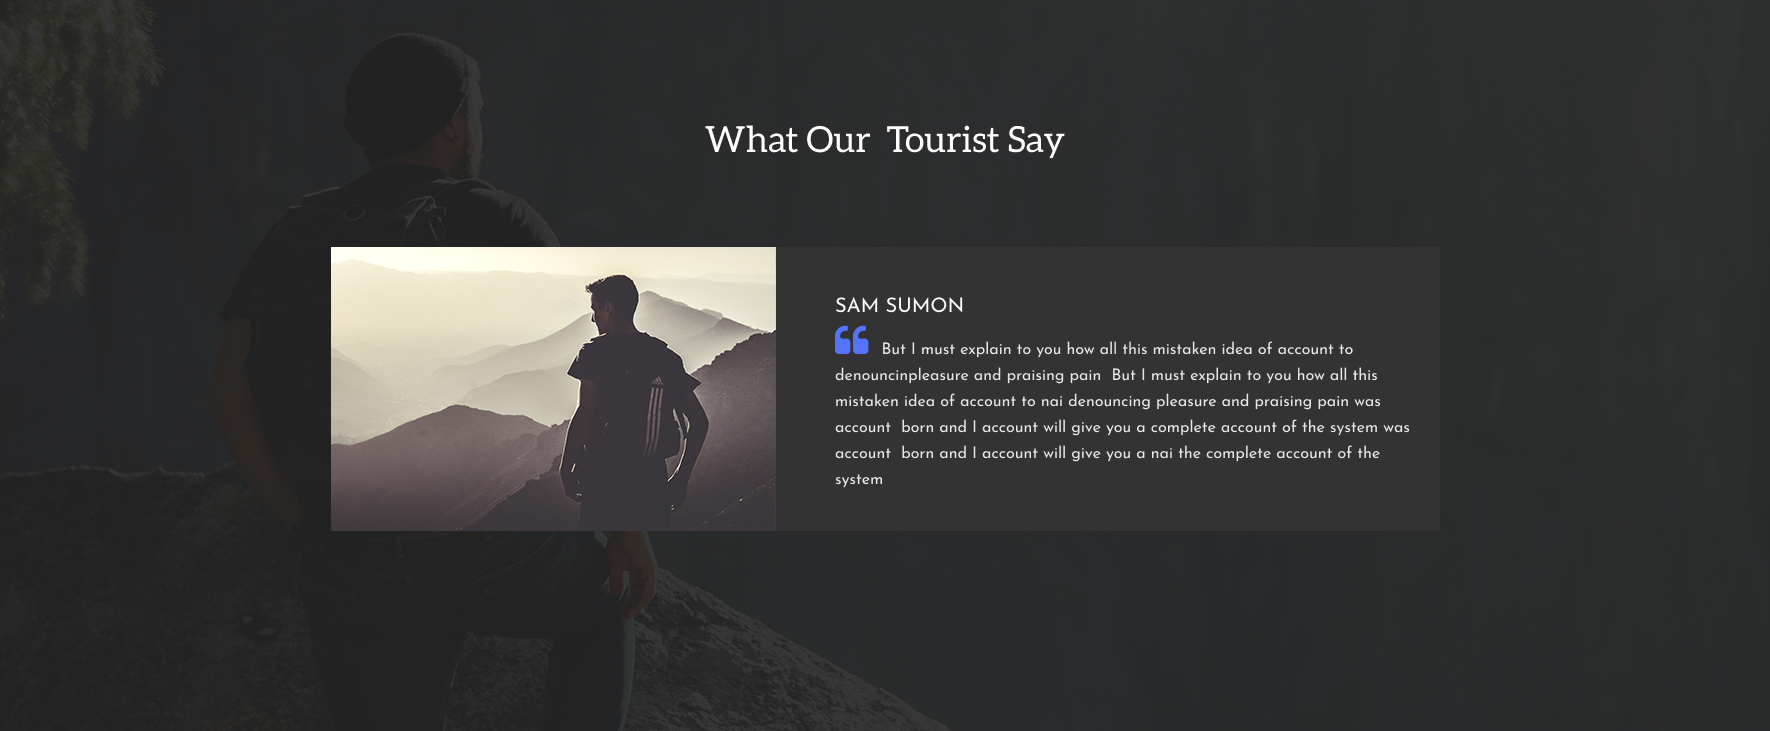
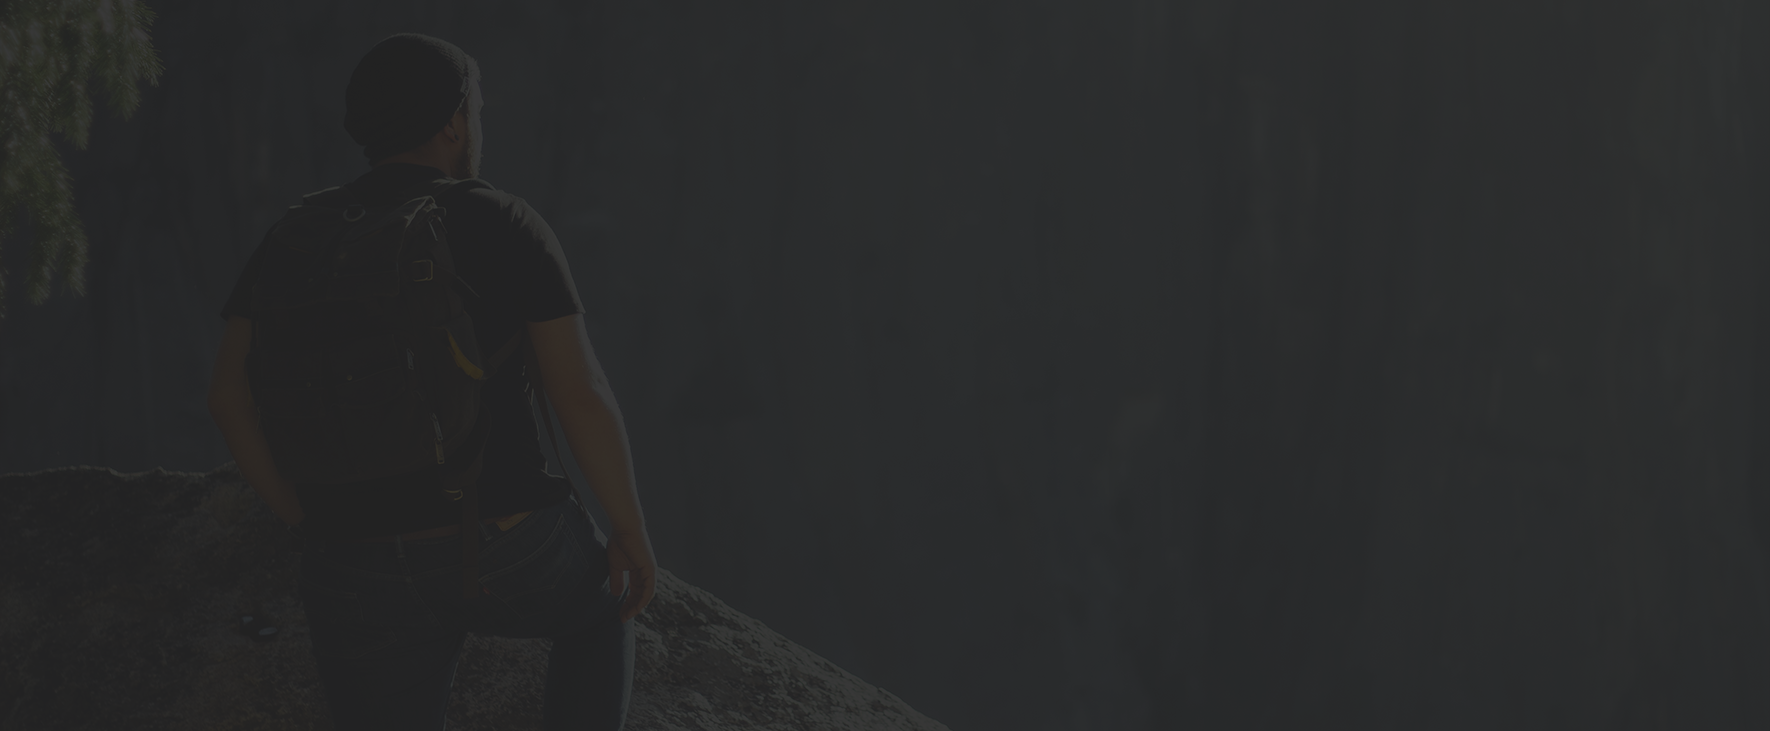
modified index.html

Changed region(s): [[0.1864, 0.3311, 0.8079, 0.7524], [0.404, 0.1806, 0.6215, 0.2107]]

diff --git a/index.html b/index.html
@@ -8,6 +8,7 @@
     <link rel="preconnect" href="https://fonts.gstatic.com" crossorigin>
     <link href="https://fonts.googleapis.com/css2?family=Montserrat:ital,wght@0,100..900;1,100..900&display=swap" rel="stylesheet">
     <link rel="stylesheet" href="https://cdnjs.cloudflare.com/ajax/libs/font-awesome/5.15.4/css/all.min.css">
+    <link rel="icon" href="favicon.ico" type="image/x-icon">
     <title>Travel Guide</title>
 </head>
 <body>
@@ -70,32 +71,73 @@
         </div>
     </section>
 
-    <section class="travel-with-us">
-        <div class="group 1">
-            <p>Spain</p>
-            <h4>GRAND SPAIN MADRID</h4>
-            <p>But I must explain to you how all this mistaken idea of account to denouncing pleasure and praising pain was account  born and I account will give you a complete account of the system</p>
-            <button class="book-now">BOOK NOW</button>
-        </div>
-        <div class="group 2">
-            <p>Spain</p>
-            <h4>GRAND SPAIN MADRID</h4>
-            <p>But I must explain to you how all this mistaken idea of account to denouncing pleasure and praising pain was account  born and I account will give you a complete account of the system</p>
-            <button class="book-now">BOOK NOW</button>
-        </div>
-    </section>
-
-    <section class="testimony">
-        <div>
-            <h5>What Our Tourist Say</h5>
-            <p>SAM SUMON   But I must explain to you how all this mistaken idea of account to denouncinpleasure and praising pain  But I must explain to you how all this mistaken idea of account to nai denouncing pleasure and praising pain was account  born and I account will give you a complete account of the system was account  born and I account will give you a nai the complete account of the system</p>
-            <img src="images/testimonial.png" alt="his-testimony">
+    <section class="destination-section" id="destination-one">
+        <div class="overlay">
+            <div class="content-box">
+                <h3>Spain</h3>
+                <h2>GRAND SPAIN MADRID</h2>
+                <p>But I must explain to you how all 
+                    this mistaken idea of denouncing pleasure 
+                    and praising pain was born and I will give you 
+                    a complete account of the system.
+                </p>
+                <a href="#" class="btn">BOOK NOW</a>
+            </div>
         </div>
     </section>
 
-    <section>
-        <h6>BHROMAON</h6>
-        <p6>Safe Travel Anywhere</p6>
+    <section class="destination-section" id="destination-two">
+        <div class="overlay">
+            <div class="content-box">
+                <h3>Spain</h3>
+                <h2>GRAND SPAIN MADRID</h2>
+                <p>But I must explain to you how all 
+                    this mistaken idea of denouncing pleasure 
+                    and praising pain was born and I will give you 
+                    a complete account of the system.
+                </p>
+                <a href="#" class="btn">BOOK NOW</a>
+            </div>
+        </div>
     </section>
+
+
+    <section class="testimonial-section">
+        <div class="container">
+          <h2>What Our Tourist Say</h2>
+          <div class="testimonial-content">
+            <div class="testimonial-image">
+              <img src="images/testimonial.png" alt="Testimonial Image" />
+            </div>
+            <div class="testimonial-text">
+                <h3>SAM SUMON</h3>
+                <p>But I must explain to you how all this mistaken idea of denouncing pleasure and praising pain was born and I will give you a complete account of the system and expound the actual teachings of the great explorer.
+                </p>
+            </div>
+        </div>
+    </div>
+  </section>
+  
+    
+    <footer class="footer-section">
+        <div class="container">
+            <div class="footer-logo">
+                <h1>BHROMAON</h1>
+                <p>Safe Travel Anywhere</p>
+            </div>
+            <div class="footer-social-icons">
+                <a href="#"><i class="fab fa-facebook-f"></i></a>
+                <a href="#"><i class="fab fa-twitter"></i></a>
+                <a href="#"><i class="fab fa-linkedin-in"></i></a>
+                <a href="#"><i class="fab fa-youtube"></i></a>
+                <a href="#"><i class="fab fa-instagram"></i></a>
+            </div>
+        </div>
+    </footer>
+
+  
+  
+
+    
 </body>
 </html>
